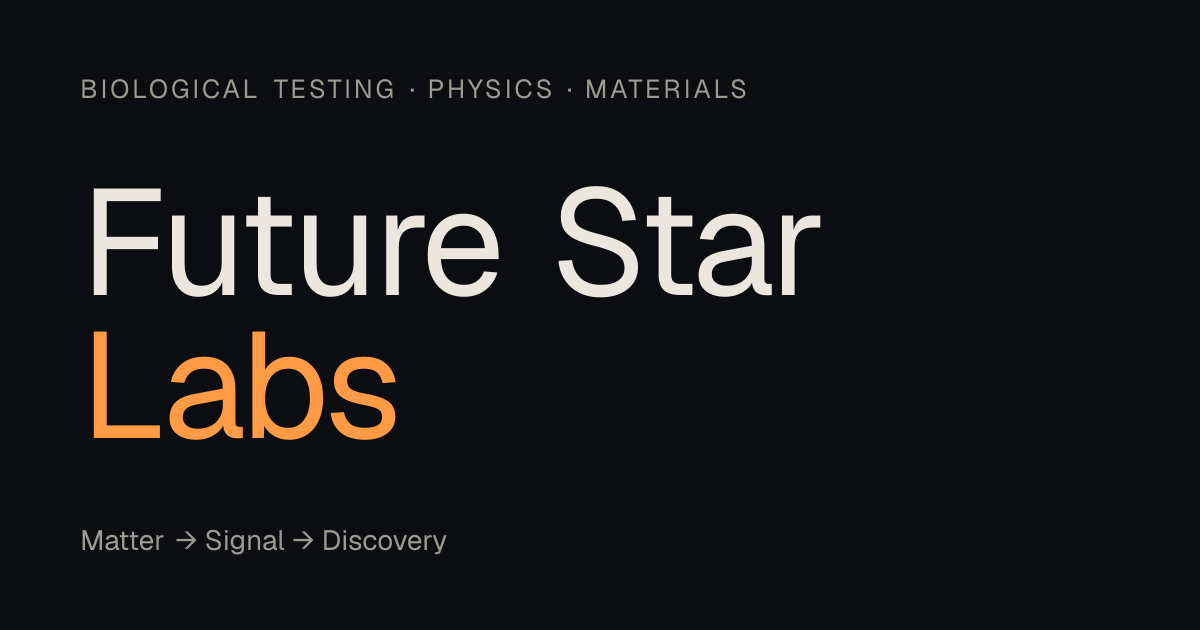
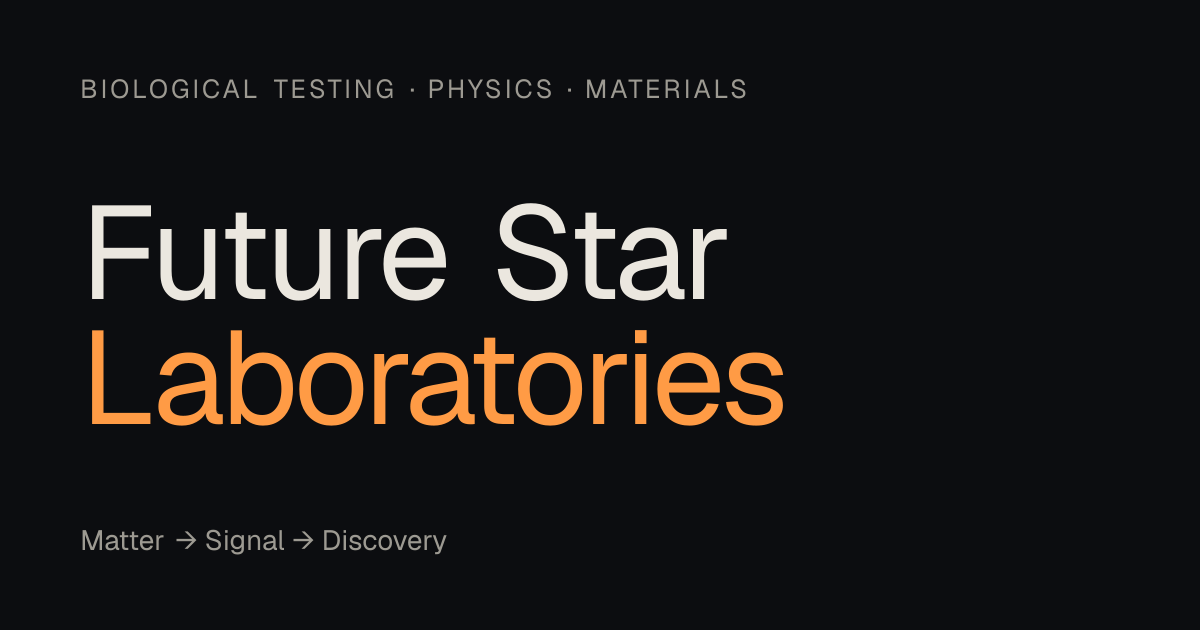
Rename the site to Future Star Laboratories
Header, browser titles, footer, intro loader, share image and body copy
now say "Future Star Laboratories". The legal entity name
"Future Star Labs LLC" on the Company page is unchanged.

Changed region(s): [[0.0617, 0.2714, 0.7092, 0.4825], [0.0617, 0.5127, 0.6783, 0.6937]]

diff --git a/components/home/ShipLogo.tsx b/components/home/ShipLogo.tsx
@@ -1,4 +1,4 @@
-// Future Star Labs mark: a silver fighter jet climbing upward, with a DNA
+// Future Star Laboratories mark: a silver fighter jet climbing upward, with a DNA
 // double helix streaming out of its twin exhausts and ending in glowing cells.
 // Pure SVG, drawn after the company logo (teal / cyan palette).
 
@@ -74,7 +74,7 @@ export default function ShipLogo({ className }: { className?: string }) {
       className={className}
       viewBox="0 0 160 420"
       role="img"
-      aria-label="Future Star Labs logo: a fighter jet with a DNA double helix coming out of its two exhausts"
+      aria-label="Future Star Laboratories logo: a fighter jet with a DNA double helix coming out of its two exhausts"
     >
       <defs>
         <linearGradient id="fslBody" x1="0" x2="1" y1="0" y2="0">

diff --git a/content/company.ts b/content/company.ts
@@ -28,7 +28,7 @@ export const COMPANY = {
       { title: "Cost and training", body: "Consumables are expensive, and every assay takes skilled staff time to learn and run well." },
       {
         title: "Machines are learning the bench",
-        body: "AI-driven robots are learning to pipette, handle samples and run experiments. They need assays built for machines: consistent, measurable and controlled by software. Future Star Labs builds its assays that way from the start.",
+        body: "AI-driven robots are learning to pipette, handle samples and run experiments. They need assays built for machines: consistent, measurable and controlled by software. Future Star Laboratories builds its assays that way from the start.",
       },
     ],
   },

diff --git a/content/home.ts b/content/home.ts
@@ -16,7 +16,7 @@ export const HERO = {
 export const PLATFORM = {
   no: "01 · Platform",
   heading: { text: "Programmable biological testing", em: "for Physical AI labs." } as Heading,
-  lede: "AI-driven machines are learning to plan experiments and carry them out at the bench. Future Star Labs builds the assays they need: tests that software can set up, run and read. BacteSign, for bacteria, comes first.",
+  lede: "AI-driven machines are learning to plan experiments and carry them out at the bench. Future Star Laboratories builds the assays they need: tests that software can set up, run and read. BacteSign, for bacteria, comes first.",
   root: {
     label: "Future Star Laboratories",
     title: "Programmable biological testing platforms",

diff --git a/components/Header.tsx b/components/Header.tsx
@@ -51,9 +51,9 @@ export default function Header() {
   return (
     <header className="site-head">
       <div className="wrap head-row">
-        <Link className="brand" href="/" aria-label="Future Star Labs home">
+        <Link className="brand" href="/" aria-label="Future Star Laboratories home">
           <BrandMark />
-          Future Star Labs
+          Future Star Laboratories
         </Link>
         <button
           className="menu-btn"

diff --git a/components/home/Loader.tsx b/components/home/Loader.tsx
@@ -55,7 +55,7 @@ export default function Loader() {
   return (
     <div id="loader" className={done ? "done" : undefined} aria-hidden="true">
       <div className="load-inner">
-        <div className="load-name">Future Star Labs</div>
+        <div className="load-name">Future Star Laboratories</div>
         <div className="label">{TAGLINE}</div>
         <div className="load-count">{String(pct).padStart(3, "0")} %</div>
       </div>

diff --git a/app/bactesign/page.tsx b/app/bactesign/page.tsx
@@ -66,7 +66,7 @@ export default function BacteSignPage() {
 
       <Closing
         label="Back to"
-        heading={{ text: "Future Star Labs" }}
+        heading={{ text: "Future Star Laboratories" }}
         ctas={[
           { label: "Home →", href: "/", primary: true },
           { label: "← The company", href: "/company" },

diff --git a/content/site.ts b/content/site.ts
@@ -1,6 +1,6 @@
 // Site-wide settings, navigation and footer links.
 
-export const SITE_NAME = "Future Star Labs";
+export const SITE_NAME = "Future Star Laboratories";
 
 /** Canonical URL. Set by NEXT_PUBLIC_SITE_URL in .github/workflows/deploy.yml for GitHub Pages. */
 export const SITE_URL =
